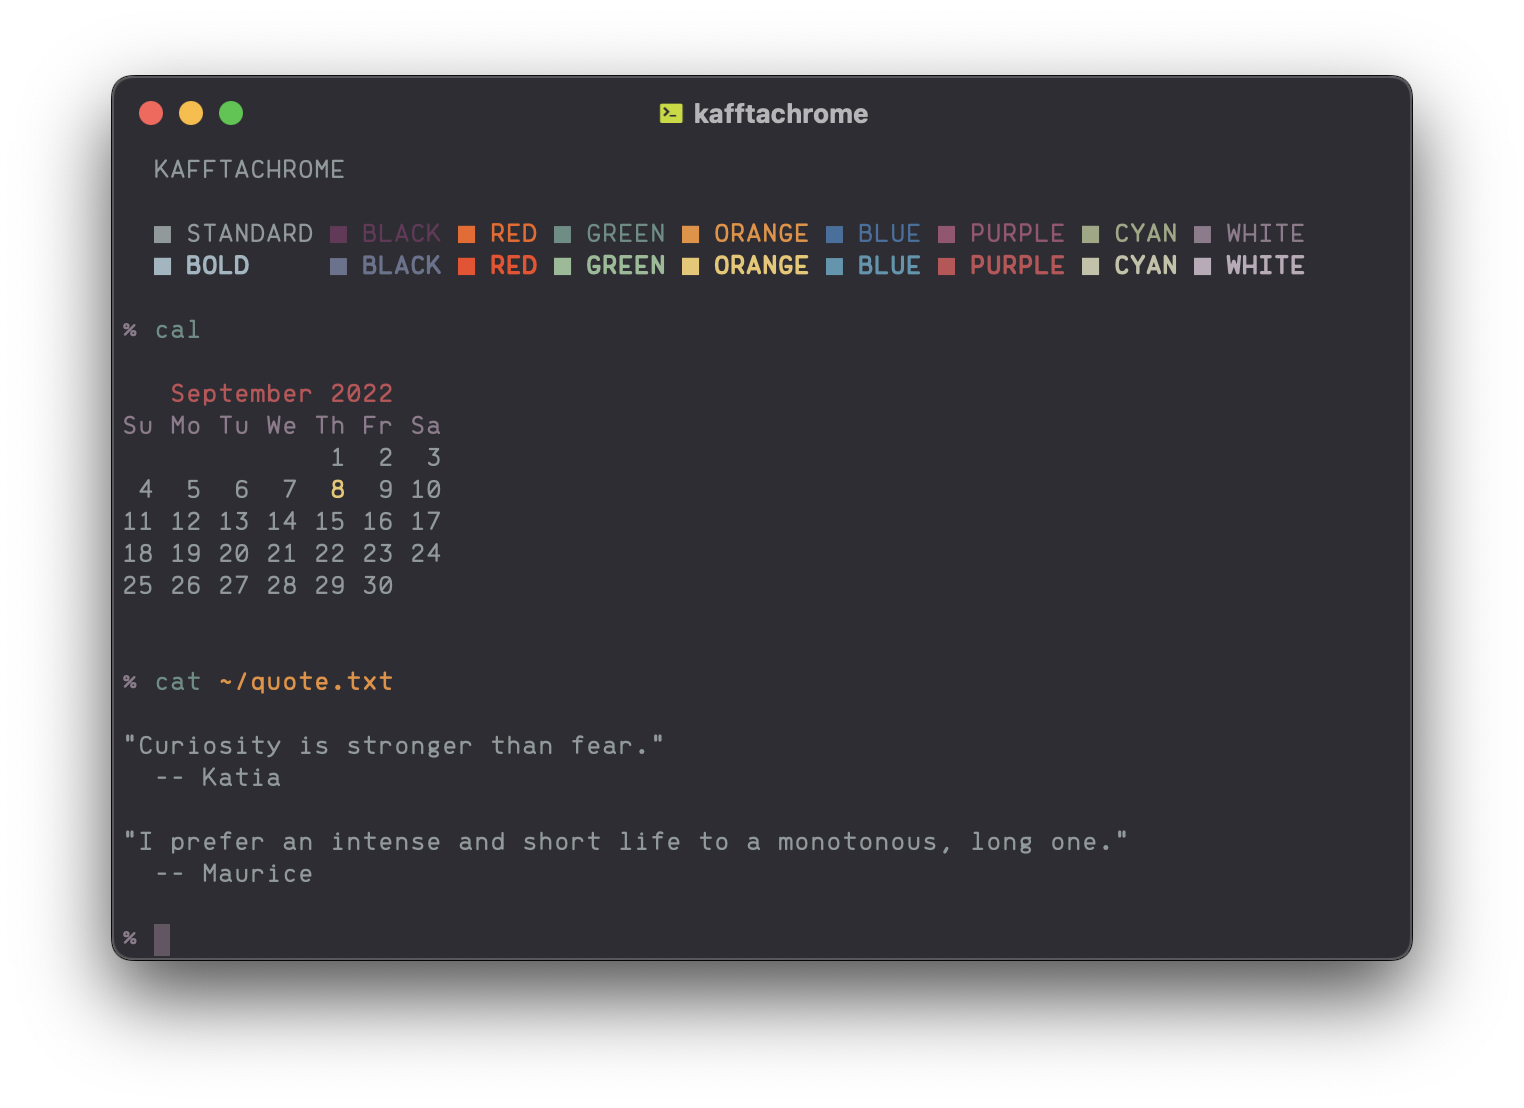
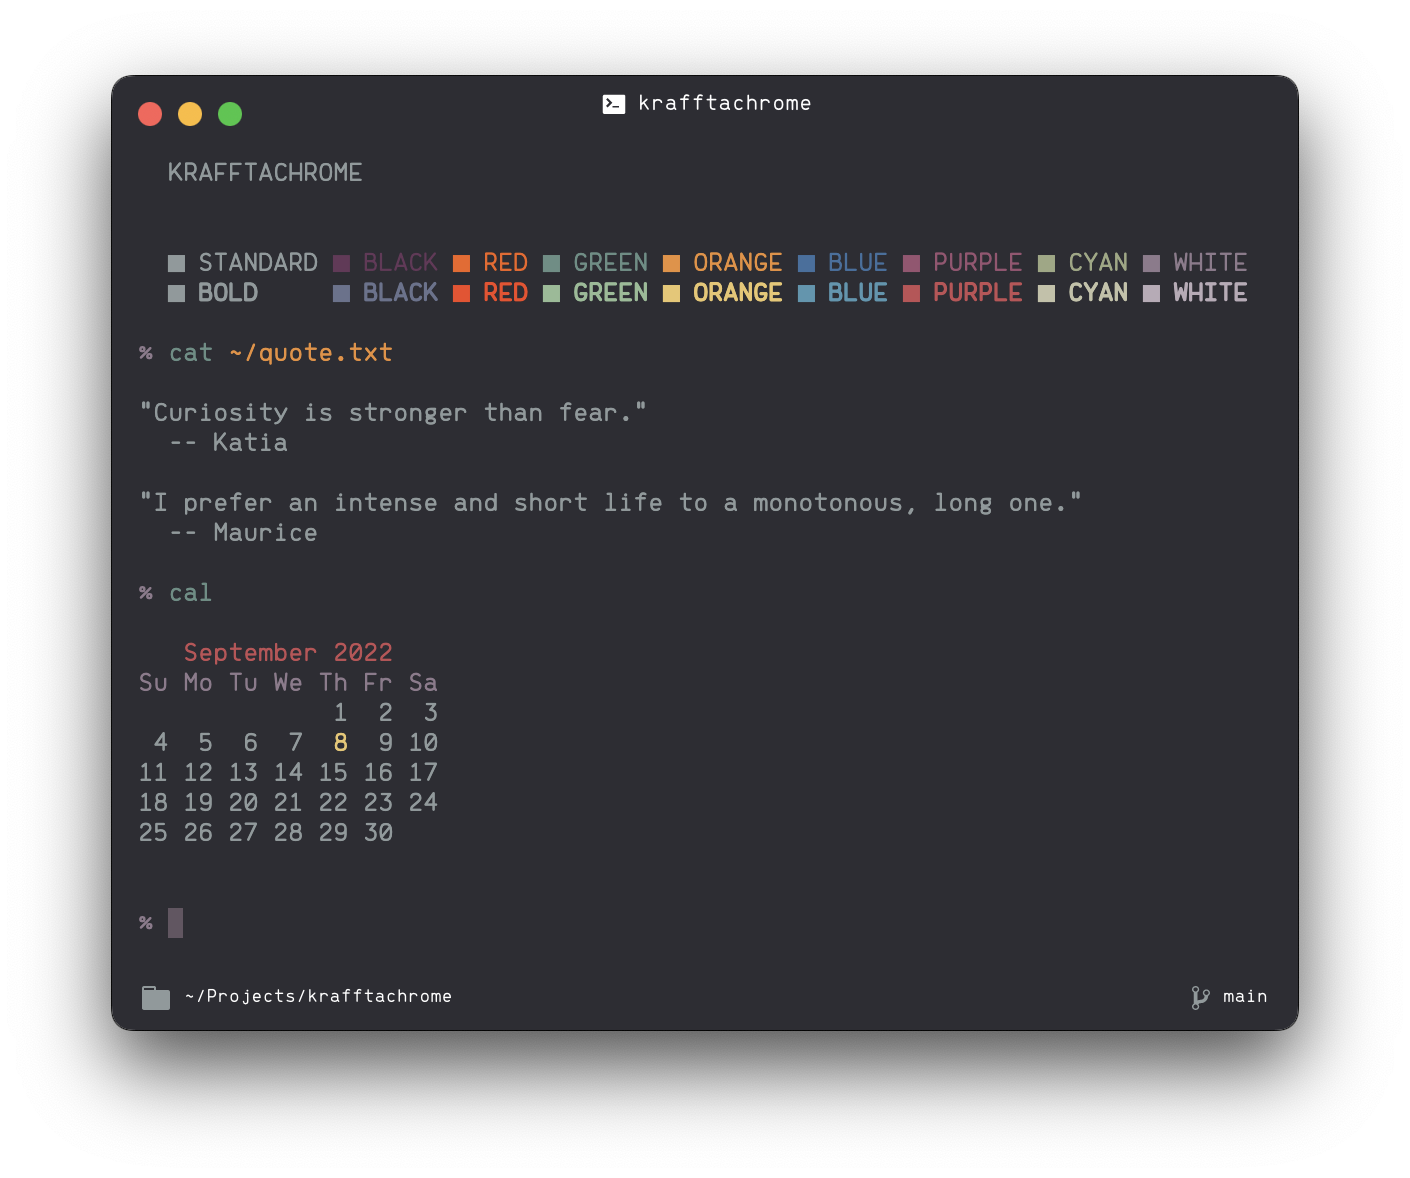
Rename to krafftachrome

diff --git a/README.md b/README.md
@@ -1,8 +1,8 @@
-# Kafftachrome
+# Krafftachrome
 
 Colors for your computer inspired by the work of [Katia and Maurice Krafft](https://en.wikipedia.org/wiki/Katia_and_Maurice_Krafft).
 
-![kafftachrome terminal](/media/term.png "term.png")
+![krafftachrome terminal](/media/term.png "term.png")
 
 > In case you're wondering, that font is [Brass Mono](https://github.com/fonsecapeter/brass_mono).
 
@@ -10,13 +10,13 @@ Colors for your computer inspired by the work of [Katia and Maurice Krafft](http
 
 ### Terminals
 
-- [Hyper](https://hyper.is/) `terminas/hyperjs/kafftachrome.js`
+- [Hyper](https://hyper.is/) `terminas/hyperjs/krafftachrome.js`
   - Copy into your own `~/.hyper.js`
-- [iTerm2](https://www.iterm2.com/): `terminas/iterm2/Kafftachrome.itermcolors`
+- [iTerm2](https://www.iterm2.com/): `terminas/iterm2/Krafftachrome.itermcolors`
   - Manual import `Profiles` > `Colors` > `Color Presets...` > `Import`
 
 ### Misc
 
-- [Slack](https://slack.com/): `misc/slack/kafftachrome.txt`
+- [Slack](https://slack.com/): `misc/slack/krafftachrome.txt`
   - Preferences > Side Bar > Theme > Custom > Copy/Paste
-- [JSONView Chrome Extension](https://jsonview.com/): `mis/jsonview/kafftachrome_json.css`
+- [JSONView Chrome Extension](https://jsonview.com/): `mis/jsonview/krafftachrome_json.css`
